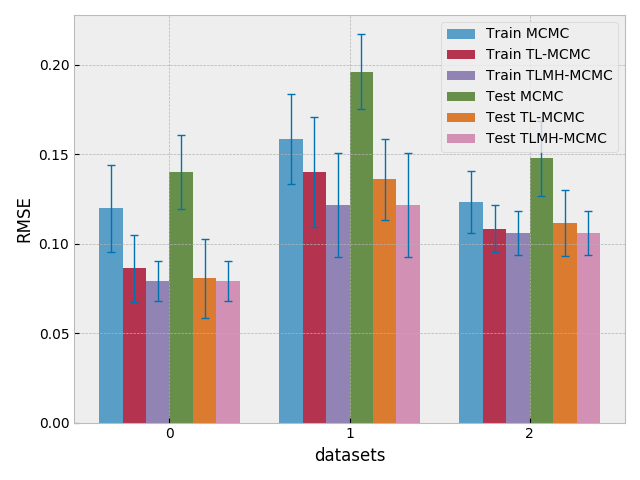
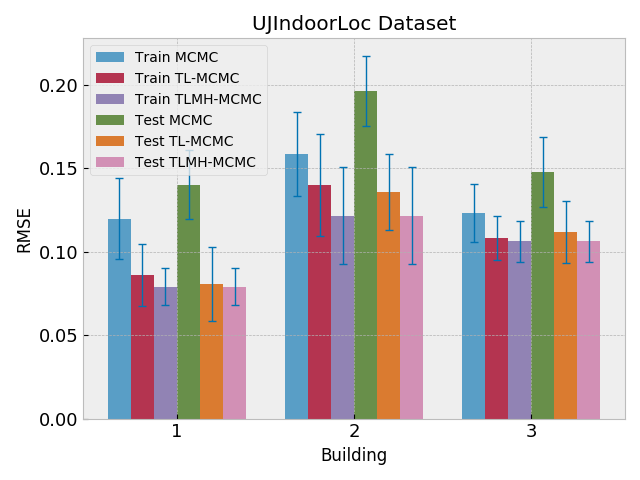
plots updated

Changed region(s): [[0.0, 0.0312, 0.9688, 0.9688]]

diff --git a/transfer-learning/mcmc-transfer-learning/UJIndoorData/plot_rmse_results.py b/transfer-learning/mcmc-transfer-learning/UJIndoorData/plot_rmse_results.py
@@ -5,6 +5,10 @@ import matplotlib as mpl
 
 mpl.style.use('bmh')
 
+mpl.rcParams.update({'font.size': 10})
+mpl.rc('xtick', labelsize=13)
+mpl.rc('ytick', labelsize=13)
+
 building_id = [0, 1, 2]
 
 train_rmse = np.zeros((len(building_id)))
@@ -128,9 +132,10 @@ plt.bar(index + float(bar_width)/2 + 5 * bar_width , test_rmse_mh, bar_width,
                 yerr = test_std_mh,
                 label = 'Test TLMH-MCMC')
 
-plt.xlabel('datasets')
+plt.xlabel('Building')
 plt.ylabel('RMSE')
-plt.xticks(index+3*bar_width, building_id + [3], rotation=0)
+plt.xticks(index+3*bar_width, [ id + 1 for id in building_id], rotation=0)
+plt.title('UJIndoorLoc Dataset')
 plt.legend()
 
 plt.tight_layout()
